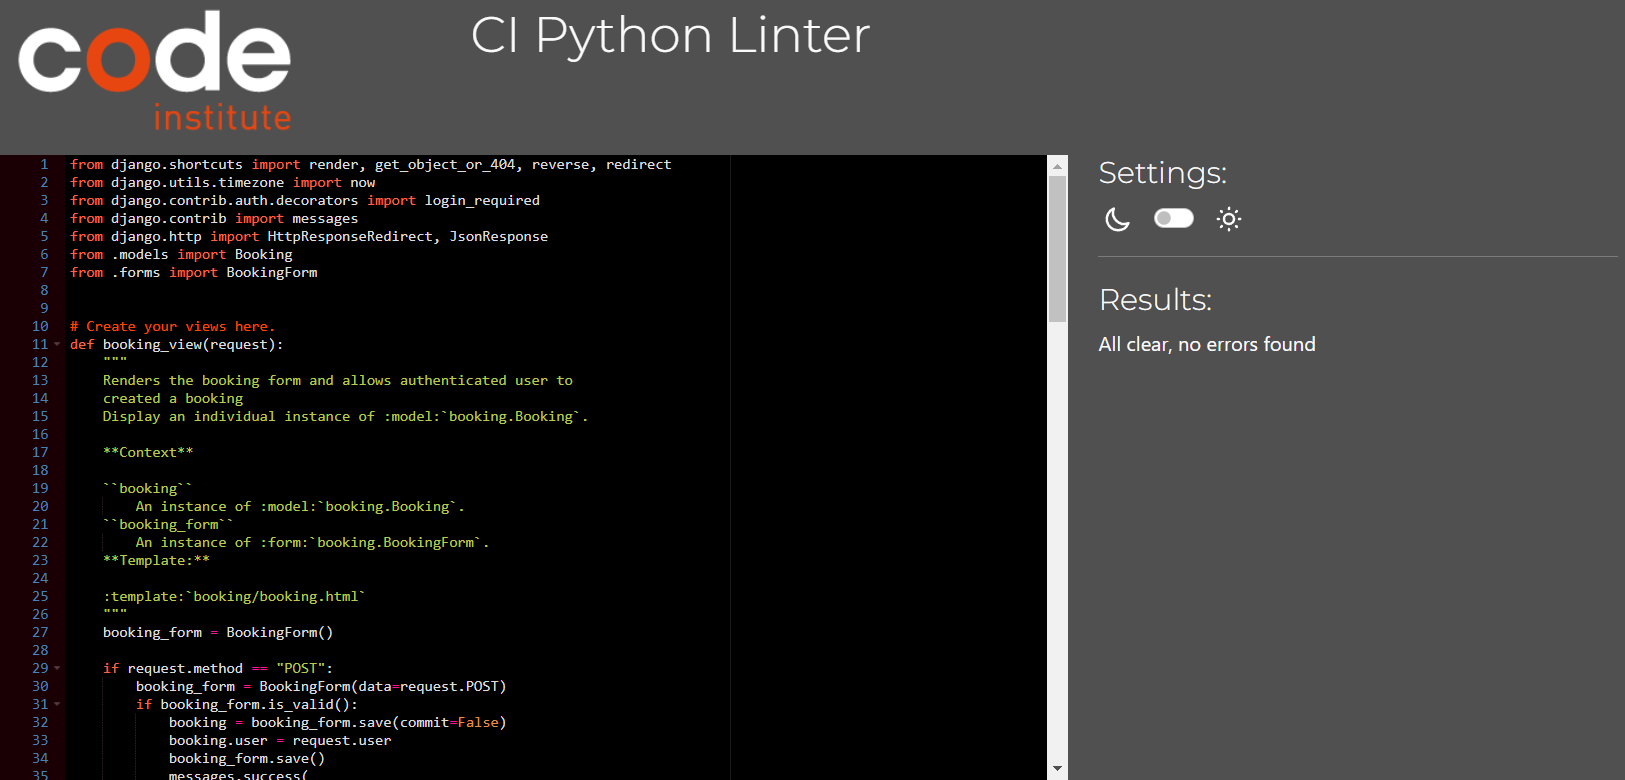
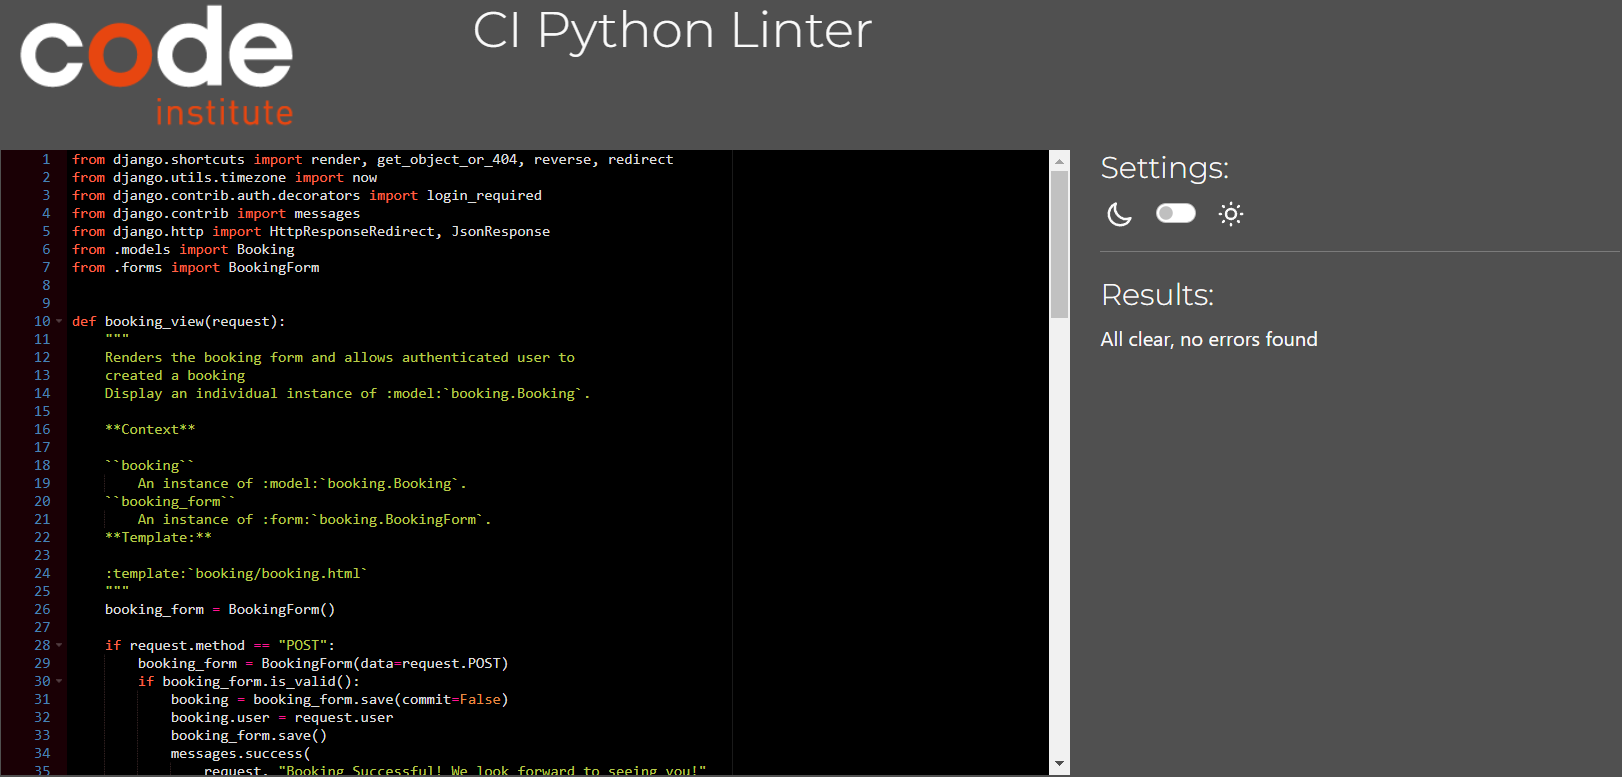
Update python validation section of TESTING.md

diff --git a/static/css/style.css b/static/css/style.css
@@ -517,11 +517,12 @@ footer a {
     max-width: 470px;
     margin: auto;
     flex-direction: column;
+    font-size: 1.2em;
 }
 
   .btn-signin,
   .btn-signup {
-    margin: 10px 40%;
+    margin: 10px auto;
   }
 
   /*Booking Form-----------------------------------------------*/

diff --git a/staticfiles/css/style.css b/staticfiles/css/style.css
@@ -517,11 +517,12 @@ footer a {
     max-width: 470px;
     margin: auto;
     flex-direction: column;
+    font-size: 1.2em;
 }
 
   .btn-signin,
   .btn-signup {
-    margin: 10px 40%;
+    margin: 10px auto;
   }
 
   /*Booking Form-----------------------------------------------*/

diff --git a/users/views.py b/users/views.py
@@ -1,7 +1,6 @@
 from allauth.account.forms import LoginForm
 from django.contrib.auth import authenticate, login, logout
 from django.shortcuts import render, redirect
-from django.http import JsonResponse
 from django.contrib import messages
 from .forms import CustomSignupForm
 
@@ -16,15 +15,20 @@ def login_and_signup_view(request):
 
             if login_form.is_valid():
                 # Authenticate the user
-                username = login_form.cleaned_data.get("login")  # This is the email/username field
+                username = login_form.cleaned_data.get("login")
                 password = login_form.cleaned_data.get("password")
-                user = authenticate(request, username=username, password=password)
+                user = authenticate(
+                    request, username=username, password=password
+                    )
 
                 if user is not None:
                     login(request, user)
                     return redirect("/")
                 else:
-                    messages.error(request, "Login failed. Please check your username and password.")
+                    messages.error(
+                        request, (f"Login failed. Please check your username "
+                                  f"and password.")
+                                    )
             else:
                 messages.error(request, "Login form is invalid.")
 
@@ -38,12 +42,18 @@ def login_and_signup_view(request):
                 messages.success(request, "Account created successfully!")
                 return redirect("/")
             else:
-                messages.error(request, "Sign-up failed. Please correct the errors.")
+                messages.error(
+                    request, "Sign-up failed. Please correct the errors."
+                    )
     else:
         login_form = LoginForm()
         signup_form = CustomSignupForm()
 
-    return render(request, "users/signin_signup.html", {"login_form": login_form, "signup_form": signup_form})
+    return render(
+        request, "users/signin_signup.html", {
+            "login_form": login_form, "signup_form": signup_form
+        }
+    )
 
 
 def logout_modal_view(request):

diff --git a/my_project/settings.py b/my_project/settings.py
@@ -65,7 +65,7 @@ ACCOUNT_AUTHENTICATION_METHOD = 'email'
 ACCOUNT_USERNAME_REQUIRED = False
 ACCOUNT_EMAIL_REQUIRED = True
 ACCOUNT_EMAIL_VERIFICATION = "none"
-ACCOUNT_UNIQUE_EMAIL = True     
+ACCOUNT_UNIQUE_EMAIL = True
 CRISPY_ALLOWED_TEMPLATE_PACKS = "bootstrap5"
 CRISPY_TEMPLATE_PACK = "bootstrap5"
 
@@ -126,16 +126,16 @@ CSRF_TRUSTED_ORIGINS = [
 
 AUTH_PASSWORD_VALIDATORS = [
     {
-        'NAME': 'django.contrib.auth.password_validation.UserAttributeSimilarityValidator',
+        'NAME': 'django.contrib.auth.password_validation.UserAttributeSimilarityValidator',  # noqa
     },
     {
-        'NAME': 'django.contrib.auth.password_validation.MinimumLengthValidator',
+        'NAME': 'django.contrib.auth.password_validation.MinimumLengthValidator',  # noqa
     },
     {
-        'NAME': 'django.contrib.auth.password_validation.CommonPasswordValidator',
+        'NAME': 'django.contrib.auth.password_validation.CommonPasswordValidator',  # noqa
     },
     {
-        'NAME': 'django.contrib.auth.password_validation.NumericPasswordValidator',
+        'NAME': 'django.contrib.auth.password_validation.NumericPasswordValidator',  # noqa
     },
 ]
 
@@ -144,7 +144,7 @@ ACCOUNT_FORMS = {'signup': 'users.forms.CustomSignupForm'}
 AUTHENTICATION_BACKENDS = (
     "django.contrib.auth.backends.ModelBackend",
     "allauth.account.auth_backends.AuthenticationBackend"
-) 
+)
 
 # Internationalization
 # https://docs.djangoproject.com/en/4.2/topics/i18n/

diff --git a/users/forms.py b/users/forms.py
@@ -1,19 +1,22 @@
 from django import forms
 from allauth.account.forms import SignupForm
-from django.contrib.auth.models import User
+
 
 class CustomSignupForm(SignupForm):
     '''
-    Sign up form - Modifies the default allauth signup form to include name input.
+    Sign up form - Modifies the default allauth signup form
+    to include name input.
     '''
     def __init__(self, *args, **kwargs):
         super().__init__(*args, **kwargs)
         self.fields['name'] = forms.CharField(
             required=True,
             label="Full Name",
-            widget=forms.TextInput(attrs={'placeholder': 'Enter your full name'}),
+            widget=forms.TextInput(attrs={
+                'placeholder': 'Enter your full name'
+            }),
         )
-        
+
         self.fields = {
             'name': self.fields['name'],
             **self.fields
@@ -22,7 +25,6 @@ class CustomSignupForm(SignupForm):
     def save(self, request):
 
         user = super(CustomSignupForm, self).save(request)
-    
         name = self.cleaned_data.get('name')
 
         if name:
@@ -31,7 +33,7 @@ class CustomSignupForm(SignupForm):
                 user.last_name = ' '.join(name.split(' ')[1:])
             else:
                 user.last_name = ''
-        
+
         user.save()
-        
+
         return user

diff --git a/menu/views.py b/menu/views.py
@@ -18,7 +18,7 @@ def menu(request):
         All instances of :model:`menu.MenuItem` where catergory="dessert".
     ``menu_drinks``
         All instances of :model:`menu.MenuItem` where catergory="drink".
-        
+
     **Template:**
 
     :template:`menu/menu.html`
@@ -36,7 +36,7 @@ def menu(request):
         "menu_desserts": menu_desserts,
         "menu_drinks": menu_drinks
     }
-    
+
     return render(
         request,
         "menu/menu.html",

diff --git a/booking/views.py b/booking/views.py
@@ -7,7 +7,6 @@ from .models import Booking
 from .forms import BookingForm
 
 
-# Create your views here.
 def booking_view(request):
     """
     Renders the booking form and allows authenticated user to

diff --git a/menu/admin.py b/menu/admin.py
@@ -1,7 +1,7 @@
 from django.contrib import admin
 from .models import MenuItem
 
-# Register your models here.
+
 @admin.register(MenuItem)
 class MenuItemAdmin(admin.ModelAdmin):
 

diff --git a/menu/urls.py b/menu/urls.py
@@ -1,5 +1,5 @@
-from . import views
 from django.urls import path
+from . import views
 
 urlpatterns = [
     path('menu/', views.menu, name='menu')

diff --git a/home/views.py b/home/views.py
@@ -1,7 +1,6 @@
 from django.shortcuts import render
 
 
-# Create your views here.
 def home_page(request):
     """
     Display homepage.

diff --git a/menu/models.py b/menu/models.py
@@ -11,7 +11,6 @@ CATEGORY = (
 )
 
 
-# Create your models here.
 class MenuItem(models.Model):
     """
     Stores a single menu item.
